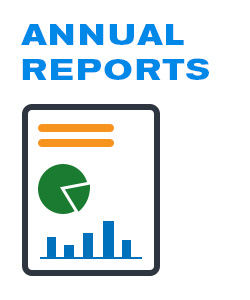
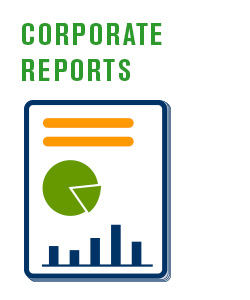
changed design of header and footer, new css as well

Changed region(s): [[0.084, 0.33, 0.7, 0.96], [0.084, 0.18, 0.84, 0.27], [0.084, 0.06, 0.756, 0.15]]

diff --git a/portfolio.html b/portfolio.html
@@ -1,31 +1,44 @@
 <html>
 <head>
-	<title>My Portfolio</title>
-	<link rel="stylesheet" type="text/css" href="w4.css">
+    <meta charset="utf-8">
+    <meta http-equiv="X-UA-Compatible" content="IE=edge,chrome=1">
+    <title></title>
+    <meta name="description" content="">
+    <meta name="viewport" content="width=device-width, initial-scale=1">
+    <link rel="stylesheet" type="text/css" href="css/style.css">
 </head>
 <body>
-	<div class="mast">
-		<img src="images/masthead_01.jpg" alt="portfolio masthead image">
-	</div>
 	<div class="nav">
-		<ul>
-			<li><a href="index.html" target="_self">about</a></li>
-			<li><a href="portfolio.html" target="_self">portfolio</a></li>
-			<li><a href="resume.html" target="_self">resume</a></li>
-			<li><a href="blog.html" target="_self">blog</a></li>
+		<ul class="nav">
+			<li class="nav"><a href="index.html" target="_self">about dom</a></li>
+			<li class="nav"><a href="portfolio.html" target="_self">portfolio</a></li>
+			<li class="nav"><a href="resume.html" target="_self">resume</a></li>
+			<li class="nav"><a href="blog.html" target="_self">blog</a></li>
 		</ul>
 	</div>
-	<div class="portfolio">
+	<div class="main">
 		<img class="floatleft" src="images/annuals.jpg" alt="annual report picture">
-		<h1>Annual Reports</h1>
-		<p>I love annual reports! From flushing out the design of the cover, MD&amp; and Notes to Financials to building out the financial tables themselves. Over the years, I've learned to ensure consistency from page-to-page and column to column. Utilizing style sheets, I am able to perform the task quickly and with spot on consistency. Those same style sheets allow me to make global changes to a design within minutes.</p>
-		<p>Many of the annual reports displayed in this portfolio have won awards.</p>
+		<h1>Corporate Reports</h1>
+		<p>I love corporate &amp; annual reports! From flushing out the design of the cover, MD&amp;A and Notes to Financials to building out the financial tables themselves. Over the years, I've learned to ensure consistency from page&dash;to&dash;page and column&dash;to&dash;column. Utilizing style sheets, I am able to perform tasks quickly, with precision and with spot on consistency. Those same style sheets allow me to make global changes to a design within minutes.</p>
+		<p>Many of the corporate &amp; annual reports displayed in this portfolio have won awards.</p>
 	</div>
 	<div class="clearfloat">
 	</div>
-	<div class="container">
-		<p>This is my container</p>
+	<div class="main">
+		<div class="portfolio">
+			<img src="images/syn2009_1.jpg" alt="syncrude2009 annual report sample spread">
+			<img src="images/syn2009_2.jpg" alt="syncrude2009 annual report sample spread">
+			<img src="images/syn2009_3.jpg" alt="syncrude2009 annual report sample spread">
+			<img src="images/syn2009_4.jpg" alt="syncrude2009 annual report sample spread">
+		</div>
 	</div>
+	</div>
+		<div class="foot">
+			<h3 class="foot">Contact</h3>
+			<p class="foot">domenic.tozzo@me.com</p>
+			<p class="foot">416.420.8947</p>
+		</div>
+	</div>	
 
 	</body>
 </html>

diff --git a/blog.html b/blog.html
@@ -1,27 +1,36 @@
 <html>
 <head>
-	<title>My Portfolio</title>
-	<link rel="stylesheet" type="text/css" href="w4.css">
+    <meta charset="utf-8">
+    <meta http-equiv="X-UA-Compatible" content="IE=edge,chrome=1">
+    <title></title>
+    <meta name="description" content="">
+    <meta name="viewport" content="width=device-width, initial-scale=1">
+    <link rel="stylesheet" type="text/css" href="css/style.css">
 </head>
 <body>
-	<div class="mast">
-		<img src="images/masthead_01.jpg" alt="portfolio masthead image">
-	</div>
 	<div class="nav">
-		<ul>
-			<li><a href="index.html" target="_self">about</a></li>
-			<li><a href="portfolio.html" target="_self">portfolio</a></li>
-			<li><a href="resume.html" target="_self">resume</a></li>
-			<li><a href="blog.html" target="_self">blog</a></li>
+		<ul class="nav">
+			<li class="nav"><a href="index.html" target="_self">about dom</a></li>
+			<li class="nav"><a href="portfolio.html" target="_self">portfolio</a></li>
+			<li class="nav"><a href="resume.html" target="_self">resume</a></li>
+			<li class="nav"><a href="blog.html" target="_self">blog</a></li>
 		</ul>
 	</div>
 	<div class="main">
 	<p class="logo"><img src="images/manescape_logo.jpg" alt="manescape logo"></p>
+	<p><img class="floatleft" src="images/manescape.jpg" alt="picture of manescape bottle of beard oil"></p>
 	<p>This is a new product that I have been working on. I developed this product for my own beard to keep it soft and shiny and to condition the skin under my beard&mdash;there is nothing worse than an itchy beard&hellip;right?. The product is hand made and mixed, all oils and essential oils are 100% organic (no synthetics) and safe for use every day. The product leaves no oily residue and is better for your skin than anything I've tried.</p>
 	<p>The product comes in 3 fragrances: Forest, Zen and Naked.</p>
-	<p><img src="images/manescape.jpg" alt="picture of manescape bottle of beard oil"></p>
+	
 	<p>All Manescape&trade; Beard Oils are a mixture of Jojoba, Sweet almond &amp; Argon oil. Then essential oils complete the scent and the experience leaving you with a soft, shiny and wonderfully scented beard. Unless of course you prefer the naked truth unscented.</p>
 	<p>Which ever oil you choose, your skin and beard will thank you.</p>
+	</div>
+	</div>
+		<div class="foot">
+			<h3 class="foot">Contact</h3>
+			<p class="foot">domenic.tozzo@me.com</p>
+			<p class="foot">416.420.8947</p>
+		</div>
 	</div>
 
 

diff --git a/css/style.css b/css/style.css
@@ -1,0 +1,156 @@
+/* browser reset */
+
+html, body, h1, h2, h3, h4, h5, h6, p, ol, ul, li, a {
+  	padding: 0;
+  	border: 0;
+  	margin: 0;
+  	font-size: 100%;
+  	font: inherit;
+  		}
+
+/* font reset */
+
+body h1, h2, h3, h4, h5, h6, p, ol, ul, li, a {
+ 		font-family: Helvetica, Arial, sans-serif;
+}
+
+body {
+ 	margin: 0px auto 0px auto;
+}
+p {
+ 	font-size: 16px;
+ 	color: #525252;
+
+}
+
+div.nav {
+ 	background-color: #383838;
+ 	margin: 0px auto 0px auto;
+ 	width: auto;
+ 	height: 50px;
+}
+
+a {
+ 	color: #ffffff;
+ 	text-decoration: none;
+}
+
+ul.nav {
+ 	padding-top: 10px;
+ 	margin-right: 200px;
+ 	text-align: right;
+}
+
+li.nav {
+ 	display: inline;
+ 	padding: 20px 0px 0px 40px;
+ 	margin-top: 20px;
+}
+
+a.nav {
+ 	text-decoration: none;
+ 	display: inline;
+}
+
+a:hover {
+ 	color: #FF6812;
+ 	border-top: 4px solid #FF6812;
+ 	padding-top: 5px;
+}
+
+div.main {
+ 	margin: 100px auto 0px auto;
+ 	width: 1024px;
+}
+
+.main h1 {
+ 	font-size: 3em;
+ 	color: #525252;
+ 	font-weight: lighter;
+ 	padding-bottom: 20px;
+}
+
+.main p {
+ 	line-height: 25px;
+ 	padding-bottom: 20px;
+}
+
+img {
+ 	border: 1px solid #525252;
+}
+
+div.imgstrip {
+ 	margin: 10px 0px 30px 0px;
+}
+
+.foot {
+	color: #ffffff;
+	font-weight: lighter;
+	text-align: right;
+	margin-right: 200px;
+}
+
+div.foot {
+ 	background-color: #383838;
+ 	margin: 0px auto 0px auto;
+ 	padding-top: 20px;
+ 	width: auto;
+	height: 120px;
+}
+
+h3.foot {
+	font-size: 1.2em;
+	padding-bottom: 5px;
+	font-weight: 400;
+}
+
+p.foot {
+	line-height: 24px;
+}
+
+h2.resume {
+	color: #525252;
+	font-size: 1.2em;
+	font-weight: 600;
+	padding-bottom: 10px;
+}
+li.resume {
+	list-style: square;
+	color: #525252;
+	font-size: 16px;
+	line-height: 24px;
+	font-weight: lighter;
+}
+ul.resume {
+	padding-left: 16px;
+	padding-bottom: 40px;
+	font-size: 16px;
+}
+h3.resume {
+	color: #525252;
+	font-size: 1.1em;
+	font-weight: 600;
+	margin-top: 10px;	
+}
+h4.resume {
+	color: #525252;
+	font-size: 1.1em;
+	font-weight: 600;	
+}
+h5.resume {
+	color: #525252;
+	font-size: 1em;
+	font-weight: 600;
+}
+img.floatleft {
+	float: left;
+	margin-right: 40px;
+	margin-bottom: 40px;
+}
+div.clearfloat {
+	clear: both;
+}
+
+.portfolio img {
+	margin: 0px auto 10px auto;
+}

diff --git a/resume.html b/resume.html
@@ -1,24 +1,25 @@
 <html>
 <head>
-	<title>My Portfolio</title>
-	<link rel="stylesheet" type="text/css" href="w4.css">
+    <meta charset="utf-8">
+    <meta http-equiv="X-UA-Compatible" content="IE=edge,chrome=1">
+    <title></title>
+    <meta name="description" content="">
+    <meta name="viewport" content="width=device-width, initial-scale=1">
+    <link rel="stylesheet" type="text/css" href="css/style.css">
 </head>
 <body>
-	<div class="mast">
-		<img src="images/masthead_01.jpg" alt="portfolio masthead image">
-	</div>
 	<div class="nav">
-		<ul>
-			<li><a href="index.html" target="_self">about</a></li>
-			<li><a href="portfolio.html" target="_self">portfolio</a></li>
-			<li><a href="resume.html" target="_self">resume</a></li>
-			<li><a href="blog.html" target="_self">blog</a></li>
+		<ul class="nav">
+			<li class="nav"><a href="index.html" target="_self">about dom</a></li>
+			<li class="nav"><a href="portfolio.html" target="_self">portfolio</a></li>
+			<li class="nav"><a href="resume.html" target="_self">resume</a></li>
+			<li class="nav"><a href="blog.html" target="_self">blog</a></li>
 		</ul>
 	</div>
-	<div class="resume">
-		<h1 class="resume">Summary of experience</h1>
+	<div class="main">
+		<h1>Summary of experience</h1>
 		
-		<p class="resume">20 years of experience in prepress, offset printing, print &amp; production management, typesetting, design &amp; layout, photo retouching, colour correcting &amp; composite image building.</p>
+		<p>20 years of experience in prepress, offset printing, print &amp; production management, typesetting, design &amp; layout, photo retouching, colour correcting &amp; composite image building.</p>
 
 		<h2 class="resume">Highlights of Qualifications &amp; Experience</h2>
 		<ul class="resume">
@@ -76,8 +77,8 @@
 	</div>
 		<div class="foot">
 			<h3 class="foot">Contact</h3>
-			<p class="resumefoot">domenic.tozzo@me.com</p>
-			<p class="resumefoot">416.420.8947</p>
+			<p class="foot">domenic.tozzo@me.com</p>
+			<p class="foot">416.420.8947</p>
 		</div>
 
 	</body>

diff --git a/index.html b/index.html
@@ -1,18 +1,19 @@
 <html>
 <head>
-	<title>My Portfolio</title>
-	<link rel="stylesheet" type="text/css" href="w4.css">
+    <meta charset="utf-8">
+    <meta http-equiv="X-UA-Compatible" content="IE=edge,chrome=1">
+    <title></title>
+    <meta name="description" content="">
+    <meta name="viewport" content="width=device-width, initial-scale=1">
+    <link rel="stylesheet" type="text/css" href="css/style.css">
 </head>
 <body>
-	<div class="mast">
-		<img src="images/masthead_01.jpg" alt="portfolio masthead image">
-	</div>
 	<div class="nav">
-		<ul>
-			<li><a href="index.html" target="_self">about</a></li>
-			<li><a href="portfolio.html" target="_self">portfolio</a></li>
-			<li><a href="resume.html" target="_self">resume</a></li>
-			<li><a href="blog.html" target="_self">blog</a></li>
+		<ul class="nav">
+			<li class="nav"><a href="index.html" target="_self">about dom</a></li>
+			<li class="nav"><a href="portfolio.html" target="_self">portfolio</a></li>
+			<li class="nav"><a href="resume.html" target="_self">resume</a></li>
+			<li class="nav"><a href="blog.html" target="_self">blog</a></li>
 		</ul>
 	</div>
 	<div class="main">
@@ -25,6 +26,7 @@
 			<img src="images/webdesign.jpg" alt="web design image">
 			<img src="images/editorial.jpg" alt="editorial image">
 		</div>
+	</div>
 		<div class="foot">
 			<h3 class="foot">Contact</h3>
 			<p class="foot">domenic.tozzo@me.com</p>

diff --git a/w4.css b/w4.css
@@ -188,7 +188,7 @@ div.clearfloat {
 }
 div.container {
 	width: 1024px;
-	height: 500px;
+	height: 650px;
 	background-color: red;
 }
 div.portfolio {
